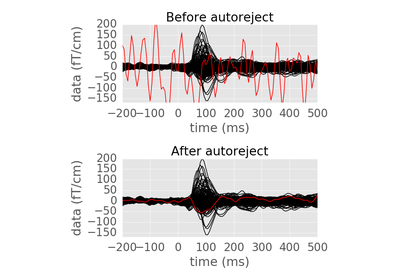
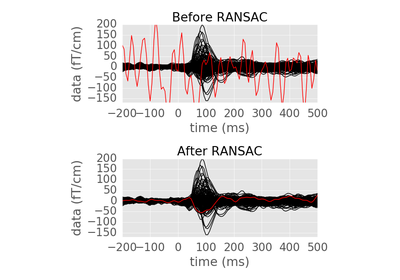
Make install

Changed region(s): [[0.42, 0.5143, 0.69, 0.5714], [0.42, 0.0286, 0.69, 0.0857]]

diff --git a/searchindex.js b/searchindex.js
@@ -1,1 +1,1 @@
-Search.setIndex({envversion:46,filenames:["api","auto_examples/index","auto_examples/plot_auto_repair","auto_examples/plot_channel_thresholds","auto_examples/plot_global_reject","auto_examples/plot_ransac","auto_examples/plot_visualize_bad_epochs","generated/autoreject.GlobalAutoReject","generated/autoreject.LocalAutoReject","generated/autoreject.LocalAutoRejectCV","generated/autoreject.Ransac","generated/autoreject.compute_thresholds","generated/autoreject.utils.fetch_file","generated/autoreject.utils.set_matplotlib_defaults","generated/autoreject.validation_curve","generated/autoreject.viz.plot_epochs","index"],objects:{"autoreject.GlobalAutoReject":{"__init__":[7,2,1,""]},"autoreject.LocalAutoReject":{"__init__":[8,2,1,""]},"autoreject.LocalAutoRejectCV":{"__init__":[9,2,1,""]},"autoreject.Ransac":{"__init__":[10,2,1,""]},"autoreject.utils":{fetch_file:[12,1,1,""],set_matplotlib_defaults:[13,1,1,""]},"autoreject.viz":{plot_epochs:[15,1,1,""]},autoreject:{GlobalAutoReject:[7,0,1,""],LocalAutoReject:[8,0,1,""],LocalAutoRejectCV:[9,0,1,""],Ransac:[10,0,1,""],compute_thresholds:[11,1,1,""],validation_curve:[14,1,1,""]}},objnames:{"0":["py","class","Python class"],"1":["py","function","Python function"],"2":["py","method","Python method"]},objtypes:{"0":"py:class","1":"py:function","2":"py:method"},terms:{"02d_raw":6,"03d":6,"100mb":15,"150e":15,"1_sub016_raw":6,"1e13":3,"1e6":4,"200e":4,"20e":15,"40_raw":[2,3,4,5],"40e":[4,6],"5th":15,"6th":16,"80e":4,"__file__":6,"__init__":[7,8,9,10],"case":4,"class":[0,2,4,7,8,9,10],"default":[7,8,9,11,13,15],"final":[3,6],"float":[7,8,10,12],"function":[0,2,4,5,8,9,15],"import":[2,3,4,5,6,16],"int":[7,8,10,11,14,15],"long":6,"public":13,"return":[8,9],"true":[2,3,4,5,6,12,15],"try":[2,4,9,12],"while":[2,5,6],abnorm:10,add:15,add_eeg_ref:6,adjust:15,admin:16,after:[2,5,6],against:4,agre:8,alexandr:[5,10,16],all:[2,4,6,8,9,10,11,15],allow:6,along:12,alpha:3,also:[2,5,6],amazonaw:6,amount:15,anaconda:16,analysi:[5,10],ani:[15,16],append:6,appli:6,argmin:4,argument:6,arrai:[2,3,9,14,15],arrow:15,artifact:[5,10,16],arxiv:[5,10,16],as_matrix:6,attribut:[8,9],auditori:[2,3,5],augment:2,author:[2,3,4,5,6],auto:[4,15],autom:[5,10,16],automat:[],autoreject:[],averag:[2,5,6],axi:[2,3,4,5],axvlin:4,backend:15,bad:[],bad_chs_:5,bad_epochs_idx:[6,15],bad_log:5,bad_seg:2,band:6,base_path:6,baselin:[2,3,4,5,6],bayesian_optim:[8,9,11],becaus:[2,5],been:6,befor:[2,5,6],beforehand:15,bekhti:[5,10,16],best_thresh:4,between:15,bigd:[5,10],block:15,blue:6,boilerpl:7,bool:[12,15],both:[2,3,4,5],bottom:[2,3,4,5],bsd:[2,3,4,5,6],butterfli:15,call:15,callabl:[2,8,9],can:[2,3,4,5,6,10,11,15,16],candid:4,cbar:[2,5],ch_type:[5,10],channel:[],check:[6,16],check_random_st:2,chosen:6,chpi:15,claus:[2,3,4,5,6],clean:[6,16],click:15,close:15,cmap:[2,5],code:[2,3,4,5,6,16],coil:5,color:[3,4],color_cycl:4,com:[6,16],compens:[2,5],comput:[2,3,4,5,6,7,11,16],compute_threshold:[],concaten:6,concatenate_epoch:6,configur:15,consecut:6,consensu:10,consensus_perc:[2,6,8,9],contain:6,continu:6,contribut:16,copi:[5,6,16],correl:10,correspond:15,creat:[2,5,6],cross:[2,5,9,14],current:[2,5],curv:14,cut:10,data:[2,3,4,5,6,15,16],data_path:[2,3,4,5],dataset:[2,3,4,5],decim:6,defin:[2,3,4],delet:6,demonstr:[2,3,4,5,6],deni:[5,10,16],depend:[15,16],desktop:[2,5],detail:16,detect:[],determin:[2,14],detrend:[2,4,5],dev_head_t:6,dict:[2,5,6,15],differ:3,dirnam:6,disk:6,displai:15,distribut:16,doctest:16,doe:2,don:[2,5],dot:5,down:15,download:[2,3,4,5,6,12],drop:[2,5,15],ds117:6,ds117_r0:6,each:[2,5,6,11],easiest:16,ecg063:6,ecg:[6,15],eeg061:6,eeg062:6,eeg063:6,eeg064:6,eeg:[2,3,4,5,6,10,11,15,16],effici:9,egg:16,electroencephalographi:16,emg:15,end:15,engemann:[5,10,16],eog061:6,eog062:6,eog:[2,3,4,5,6,15],epochs_ar:6,epochs_clean:[2,5,16],error:16,estim:[2,6,14],evalu:14,event:[2,3,4,5,6],event_fnam:[2,3,4,5],event_id:[2,3,4,5],events_id:6,everyth:16,evok:[2,5,6],evoked_clean:[2,5],exact:2,exclud:[2,3,4,5,6],execut:15,exist:6,extens:5,extract:[3,6],extractal:6,eyeblink:6,f11:15,face:6,factor:15,fals:[2,3,4,5,6,8,9,10,11,15],famou:6,federico:[5,10,16],fetch_fil:[],field:15,fif:[2,3,4,5,6],fig:[2,5,15],figsiz:[2,3,4,5],figur:[2,3,4,5,15],file:[2,5,6,12],file_nam:12,filter:6,find:[],find_ev:6,fine:16,first:[2,3,5,6,16],fit:[9,14],fit_predict:5,fit_transform:[2,6,16],fix_log:[6,15],flag:16,fly:15,fold:2,follow:[4,16],format:6,found:[3,6,14],fow:16,fraction:[8,10],from:[2,3,4,5,6,16],frontier:[5,10],full:15,functool:[2,6],futur:16,gener:[11,14],get:16,get_xticklabel:[2,5],get_yticklabel:[2,5],getmemb:6,git:16,github:16,github_repo:[2,5],give:16,global:[],globalautoreject:[],good:15,grad:[2,3,5,15],grade:[2,5],gramfort:[5,10,16],green:15,guarante:16,h_trans_bandwidth:6,halt:15,happen:16,have:[3,6,10,16],heatmap:[2,5],hist:3,histogram:3,home:[2,5,15],how:[2,3,4,5,6],http:[6,16],human_thresh:4,idl:[2,5],immedi:6,implement:[5,10,14],includ:[2,3,4,5,15],increas:6,inde:3,indic:15,info:[2,3,4,5,6],instanc:[8,9,11,13,14,15],instanti:[2,5],instead:6,intend:16,intern:[2,16],interpol:[2,5,6,8,15],interpolate_bad:5,ipynb:[2,3,4,5,6],ipython:[2,3,4,5,6],issu:16,item:[2,5],iter:14,job:10,joblib:[],join:6,just:[2,5],kei:15,l_trans_bandwidth:6,label:[4,14],larg:[5,10],learn:[2,4,9,16],left:[2,3,4,5,15],legend:4,length:[6,10],less:[2,6],let:[2,3,4,5,6],level:[],librari:16,licens:[2,3,4,5,6],like:[2,4,15],line:[15,16],linestyl:4,linewidth:4,linspac:[2,4,9],list:[2,5,6],load:[3,6,12,15],loc:4,local_ar:9,localautorejectcv:[],mag:15,magneto:16,mai:6,main:15,mainak:[2,3,4,5,6,10,16],make:[2,5,16],manual:[2,4,5],map:5,mark:[2,5,15],markeredgecolor:4,markeredgewidth:4,markerfacecolor:4,markers:4,match:15,math:[],matplotlib:[2,3,4,5,13,15,16],matrix:5,mean:4,meg:[2,3,4,5,6,10,16],member:6,memori:6,messag:[8,9,10,11,16],method:[2,3,7,8,9,10,11,14],min_channel:10,min_corr:10,min_dur:6,minut:[2,3,4,5,6],misc:[6,15],miss:5,mne:[2,3,4,5,6,8,9,10,11,14,16],mode:15,more:[2,16],mous:15,mpl:15,multipl:16,must:[2,3,8,11,14],n_channel:[7,15],n_consensu:9,n_epoch:15,n_interp:[2,9],n_interpol:[2,6,8,9],n_job:[6,10],n_resampl:10,n_time:7,name:[12,14,15],navig:15,necessari:6,need:[12,16],neighbour:10,neuroimag:16,neuroinformat:[5,10],next:4,nice:16,nima:[5,10],none:[2,3,4,5,6,7,8,9,11,14,15],note:5,notebook:[2,3,4,5,6],now:[2,3,4,5,6,16],number:[2,3,6,7,8,10,11,15],numpi:[2,3,4,16],object:[8,9,11,14,15,16],off:[2,3,4,5,10],onli:[2,5,15],onset:6,open:[2,5,6,12],openfmri:6,optim:[2,16],option:[12,14,16],org:[],origin:5,our:3,out:[2,5,6,16],output:[8,9,10,11],over:3,page:15,panda:16,parallel:10,param:[2,5],param_nam:[4,14],param_rang:[4,14],paramet:[2,14,15],paristech:[2,3,4,5,6],partial:[2,6,12],particular:[2,4],pass:6,path:[6,12],pattern:16,pca:[2,5],peak:4,per:[],percentag:8,percentil:15,pick:[2,3,4,5,6,15],pick_typ:[2,3,4,5,6],pip:16,pipelin:[5,10],plot:[],plot_auto_repair:2,plot_channel_threshold:3,plot_epoch:[],plot_global_reject:4,plot_ransac:5,plot_visualize_bad_epoch:6,plt:[2,3,4,5,13],point:7,poor:10,predict:[10,14],preload:[2,3,4,5,6,15],prep:[5,10],prepar:5,preprint:[5,10,16],preprocess:[5,10],preselect:2,print:6,privileg:16,prni:16,process:6,product:5,program:15,progress:[8,9,10,11],progressbar:[8,9,10,11,16],proj:[2,5,6],project:[2,5],provid:[2,16],pseudo:11,purpos:[2,5],pyplot:[2,3,4,5,13],python:[2,3,4,5,6,16],qualiti:13,raimondo:[5,10,16],random:[10,11],random_search:[2,3,11],random_st:[2,3,6,11],randomst:11,rang:[2,3,4,5,6],ransac:[],raw:[2,3,4,5,6],raw_fnam:[2,3,4,5],rcparam:4,read:[2,5,6,16],read_ev:[2,3,4,5],read_raw_fif:[2,3,4,5,6],readi:[2,5],recognit:16,recommend:16,reconstruct:10,rect:[2,5],red:[2,5,6,15],ref_meg:15,refer:[2,5],relat:[2,5],remov:[2,5,6],rename_channel:6,repair:[],request:12,requir:2,resampl:10,reset_bad:5,resp:15,rest:2,result:[2,5],resum:12,right:[2,3,4,5,15],rmse:4,robust:10,root:4,rotat:[2,5],run:[2,3,4,5,6],run_:6,run_fnam:6,same:6,sampl:[2,3,4,5,6,10],sample_audvis_filt:[2,3,4,5],saniti:6,save:12,scale:[3,4,5,6,10,15],scikit:[4,9,16],scipi:16,score:4,scrambl:6,screen:15,script:[2,3,4,5,6,16],seaborn:[2,5],sec:[2,5,6],second:[2,3,4,5,6],see:6,seed:11,segment:15,select:[3,6,15],sensor:[],set:[2,5,6,10,13,15],set_channel_typ:6,set_eeg_refer:6,set_matplotlib_default:[],set_titl:[2,5],set_xlabel:[2,5],set_ylabel:[2,5],setp:[2,5],shall:[2,5],shamlo:[5,10],shape:15,should:[15,16],show:[2,3,4,5,15],side:15,signal:3,skip:16,some:[2,5],sourc:[2,3,4,5,6],spatial_color:6,squar:[2,4,5],src_url:6,standard:[5,10],start:[6,16],sti101:6,stim:[2,3,4,5,6,15],stim_channel:6,stimuli:6,str:[10,11,14,15],strategi:14,string:12,sub016:6,sub:6,subject:6,subject_id:6,subplot:[2,5],subset:15,support:16,suppress:[8,9,10,11],take:6,tar:6,tarbal:6,tarfil:6,target:6,telecom:[2,3,4,5,6],test_scor:4,tgz:6,than:[2,16],them:[5,6],therefor:[2,5],thi:[2,3,4,5,6,11,15,16],thing:[2,5],this_epoch:6,three:16,thresh:[3,4,7],thresh_func:[2,6,8,9],threshold:[],tick_param:[2,3,4,5],tight_layout:[2,3,4,5],time:[2,3,4,5,6,7,10],timeout:12,titl:[6,15],tkagg:15,tmax:[2,3,4,5,6],tmin:[2,3,4,5,6],toggl:15,top:[2,3,4,5,15],total:[2,3,4,5,6,8],tqdm:[3,5,6,8,9,10,11,16],tqdm_notebook:[8,9,10,11,16],trace:15,tracker:16,trial:[],trigger:[3,6],truncat:5,type:[2,5,16],unbroken_tim:10,unfamiliar:6,unit:[3,4],until:15,upgrad:16,upper:4,url:12,user:16,valid:[2,9,14],validation_curv:[],valu:[2,4,9,14],vari:14,verbos:[2,3,4,5,6,8,9,10,11,16],verifi:3,vertic:15,view:15,wai:[11,16],want:[2,5,16],welcom:16,well:[5,6,15],when:[2,5],where:12,whether:15,which:[2,3,4,5,6,8,9],whose:[11,14],window:15,window_s:10,wise:3,work:[5,15,16],workshop:16,worst:2,would:[2,4],wrt:10,xlabel:[3,4],xlim:[3,4],xticklabel:[2,5],xxx:6,yet:6,ylabel:[3,4],ylim:[2,5,6],you:16,your:16,yousra:[5,10,16],yticklabel:[2,5]},titles:["API Documentation","Examples Gallery","Automatically repair epochs","Plot channel-level thresholds","Find global rejection threshold","Detect bad sensors using RANSAC","Visualize bad sensors per trial","autoreject.GlobalAutoReject","autoreject.LocalAutoReject","autoreject.LocalAutoRejectCV","autoreject.Ransac","autoreject.compute_thresholds","autoreject.utils.fetch_file","autoreject.utils.set_matplotlib_defaults","autoreject.validation_curve","autoreject.viz.plot_epochs","autoreject"],titleterms:{api:0,automat:2,autoreject:[7,8,9,10,11,12,13,14,15,16],bad:[5,6],bug:16,channel:3,cite:16,compute_threshold:11,detect:5,document:0,epoch:[0,2],exampl:1,fetch_fil:12,find:4,galleri:1,global:4,globalautoreject:7,instal:16,level:3,localautoreject:8,localautorejectcv:9,per:6,plot:3,plot_epoch:15,quickstart:16,ransac:[5,10],reject:[0,4],repair:2,report:16,sensor:[5,6],set_matplotlib_default:13,threshold:[3,4],trial:6,util:[0,12,13],validation_curv:14,visual:[0,6],viz:15}})
+Search.setIndex({envversion:46,filenames:["api","auto_examples/index","auto_examples/plot_auto_repair","auto_examples/plot_channel_thresholds","auto_examples/plot_global_reject","auto_examples/plot_ransac","auto_examples/plot_visualize_bad_epochs","generated/autoreject.GlobalAutoReject","generated/autoreject.LocalAutoReject","generated/autoreject.LocalAutoRejectCV","generated/autoreject.Ransac","generated/autoreject.compute_thresholds","generated/autoreject.utils.fetch_file","generated/autoreject.utils.set_matplotlib_defaults","generated/autoreject.validation_curve","generated/autoreject.viz.plot_epochs","index"],objects:{"autoreject.GlobalAutoReject":{"__init__":[7,2,1,""]},"autoreject.LocalAutoReject":{"__init__":[8,2,1,""]},"autoreject.LocalAutoRejectCV":{"__init__":[9,2,1,""]},"autoreject.Ransac":{"__init__":[10,2,1,""]},"autoreject.utils":{fetch_file:[12,1,1,""],set_matplotlib_defaults:[13,1,1,""]},"autoreject.viz":{plot_epochs:[15,1,1,""]},autoreject:{GlobalAutoReject:[7,0,1,""],LocalAutoReject:[8,0,1,""],LocalAutoRejectCV:[9,0,1,""],Ransac:[10,0,1,""],compute_thresholds:[11,1,1,""],validation_curve:[14,1,1,""]}},objnames:{"0":["py","class","Python class"],"1":["py","function","Python function"],"2":["py","method","Python method"]},objtypes:{"0":"py:class","1":"py:function","2":"py:method"},terms:{"02d_raw":6,"03d":6,"100mb":15,"150e":15,"1_sub016_raw":6,"1e13":3,"1e6":4,"200e":4,"20e":15,"40_raw":[2,3,4,5],"40e":[4,6],"5th":15,"6th":16,"80e":4,"__file__":6,"__init__":[7,8,9,10],"case":4,"class":[0,2,4,7,8,9,10],"default":[7,8,9,11,13,15],"final":[3,6],"float":[7,8,10,12],"function":[0,2,4,8,9,15],"import":[2,3,4,5,6,16],"int":[7,8,10,11,14,15],"long":6,"public":13,"return":[8,9],"true":[2,3,4,5,6,12,15],"try":[2,4,9,12],"while":[2,5,6],abnorm:10,add:15,add_eeg_ref:6,adjust:15,admin:16,after:[2,5,6],against:4,agre:8,alexandr:[5,10,16],all:[2,4,6,8,9,10,11,15],allow:6,along:12,alpha:3,also:[2,5,6,16],amazonaw:6,amount:15,anaconda:16,analysi:[5,10],ani:[15,16],append:6,appli:6,argmin:4,argument:6,arrai:[2,3,9,14,15],arrow:15,artifact:[5,10,16],arxiv:[5,10,16],as_matrix:6,attribut:[8,9],auditori:[2,3,5],augment:2,author:[2,3,4,5,6],auto:[4,15],autom:[5,10,16],automat:[],autoreject:[],averag:[2,5,6],axi:[2,3,4,5],axvlin:4,backend:15,bad:[],bad_chs_:5,bad_epochs_idx:[6,15],bad_log:5,bad_seg:2,band:6,base_path:6,baselin:[2,3,4,5,6],bayesian_optim:[8,9,11],becaus:[2,5],been:6,befor:[2,5,6],beforehand:15,bekhti:[5,10,16],best_thresh:4,between:15,bigd:[5,10],block:15,blue:6,boilerpl:7,bool:[12,15],both:[2,3,4,5],bottom:[2,3,4,5],bsd:[2,3,4,5,6],butterfli:15,call:15,callabl:[2,8,9],can:[2,3,4,5,6,10,11,15,16],candid:4,cbar:[2,5],ch_type:[5,10],channel:[],check:[6,16],check_random_st:2,chosen:6,chpi:15,claus:[2,3,4,5,6],clean:[6,16],click:15,close:15,cmap:[2,5],code:[2,3,4,5,6,16],coil:5,color:[3,4],color_cycl:4,com:[6,16],compens:[2,5],comput:[2,3,4,5,6,7,11,16],compute_threshold:[],concaten:6,concatenate_epoch:6,configur:15,consecut:6,consensu:10,consensus_perc:[2,6,8,9],contain:6,continu:6,contribut:16,copi:[6,16],correl:10,correspond:15,creat:[2,5,6],cross:[2,5,9,14],current:[2,5],curv:14,cut:10,data:[2,3,4,5,6,15,16],data_path:[2,3,4,5],dataset:[2,3,4,5],decim:6,defin:[2,3,4],delet:6,demonstr:[2,3,4,5,6],deni:[5,10,16],depend:[15,16],desktop:[2,5],detail:16,detect:[],determin:[2,14],detrend:[2,4,5],dev_head_t:6,dict:[2,5,6,15],differ:3,dirnam:6,disk:6,displai:15,distribut:16,doctest:16,doe:2,don:[2,5],dot:5,down:15,download:[2,3,4,5,6,12],drop:[2,5,15],ds117:6,ds117_r0:6,each:[2,5,6,11],easiest:16,ecg063:6,ecg:[6,15],eeg061:6,eeg062:6,eeg063:6,eeg064:6,eeg:[2,3,4,5,6,10,11,15,16],effici:9,egg:16,electroencephalographi:16,emg:15,end:15,engemann:[5,10,16],eog061:6,eog062:6,eog:[2,3,4,5,6,15],epochs_ar:6,epochs_clean:[2,5,16],error:16,estim:[2,6,14],evalu:14,event:[2,3,4,5,6],event_fnam:[2,3,4,5],event_id:[2,3,4,5],events_id:6,everyth:16,evok:[2,5,6],evoked_clean:[2,5],exact:2,exclud:[2,3,4,5,6],execut:15,exist:6,extens:5,extract:[3,6],extractal:6,eyeblink:6,f11:15,face:6,factor:15,fals:[2,3,4,5,6,8,9,10,11,15],familiar:5,famou:6,federico:[5,10,16],fetch_fil:[],field:15,fif:[2,3,4,5,6],fig:[2,5,15],figsiz:[2,3,4,5],figur:[2,3,4,5,15],file:[2,5,6,12],file_nam:12,filter:6,find:[],find_ev:6,fine:16,first:[2,3,6,16],fit:[9,14],fit_predict:[],fit_transform:[2,5,6,16],fix_log:[6,15],flag:16,fly:15,fold:2,follow:[4,16],format:6,found:[3,6,14],fow:16,fraction:[8,10],from:[2,3,4,5,6,16],frontier:[5,10],full:15,functool:[2,6],futur:16,gener:[11,14],get:[5,16],get_xticklabel:[2,5],get_yticklabel:[2,5],getmemb:6,git:16,github:16,github_repo:[2,5],give:16,global:[],globalautoreject:[],good:15,grad:[2,3,5,15],grade:[2,5],gramfort:[5,10,16],green:15,guarante:16,h_trans_bandwidth:6,halt:15,happen:16,have:[3,6,10,16],heatmap:[2,5],hist:3,histogram:3,home:[2,5,15],how:[2,3,4,5,6],http:[6,16],human_thresh:4,idl:[2,5],immedi:6,implement:[5,10,14,16],includ:[2,3,4,5,15],increas:6,inde:3,indic:15,info:[2,3,4,5,6],instanc:[8,9,11,13,14,15],instanti:[2,5],instead:6,intend:16,intern:[2,16],interpol:[2,5,6,8,15],interpolate_bad:5,ipynb:[2,3,4,5,6],ipython:[2,3,4,5,6],issu:16,item:[2,5],iter:14,job:10,joblib:[],join:[5,6],just:[2,5],kei:15,l_trans_bandwidth:6,label:[4,14],larg:[5,10],learn:[2,4,9,16],left:[2,3,4,5,15],legend:4,length:[6,10],less:[2,6],let:[2,3,4,5,6],level:[],librari:16,licens:[2,3,4,5,6],like:[2,4,15],line:[15,16],linestyl:4,linewidth:4,linspac:[2,4,9],list:[2,5,6],load:[3,6,12,15],loc:4,local_ar:9,localautorejectcv:[],mag:15,magneto:16,mai:6,main:15,mainak:[2,3,4,5,6,10,16],make:[2,5,16],manual:[2,4,5],map:5,mark:[2,5,15],markeredgecolor:4,markeredgewidth:4,markerfacecolor:4,markers:4,match:15,math:[],matplotlib:[2,3,4,5,13,15,16],matrix:5,mean:4,meg:[2,3,4,5,6,10,16],member:6,memori:6,messag:[8,9,10,11,16],method:[2,3,5,7,8,9,10,11,14],min_channel:10,min_corr:10,min_dur:6,minut:[2,3,4,5,6],misc:[6,15],miss:5,mne:[2,3,4,5,6,8,9,10,11,14,16],mode:15,more:[2,16],mous:15,mpl:15,multipl:16,must:[2,3,8,11,14],n_channel:[7,15],n_consensu:9,n_epoch:15,n_interp:[2,9],n_interpol:[2,6,8,9],n_job:[6,10],n_resampl:10,n_time:7,name:[12,14,15],navig:15,necessari:6,need:[12,16],neighbour:10,neuroimag:16,neuroinformat:[5,10],next:4,nice:16,nima:[5,10],none:[2,3,4,5,6,7,8,9,11,14,15],note:5,notebook:[2,3,4,5,6],now:[2,3,4,5,6,16],number:[2,3,6,7,8,10,11,15],numpi:[2,3,4,16],object:[8,9,11,14,15,16],off:[2,3,4,5,10],onli:[2,5,15],onset:6,open:[2,5,6,12],openfmri:6,optim:[2,16],option:[12,14,16],org:[],origin:5,our:3,out:[2,5,6,16],output:[8,9,10,11],over:3,page:15,panda:16,parallel:10,param:[2,5],param_nam:[4,14],param_rang:[4,14],paramet:[2,14,15],paristech:[2,3,4,5,6],partial:[2,6,12],particular:[2,4],pass:6,path:[6,12],pattern:16,pca:[2,5],peak:4,per:[],percentag:8,percentil:15,pick:[2,3,4,5,6,15],pick_typ:[2,3,4,5,6],pip:16,pipelin:[5,10,16],plot:[],plot_auto_repair:2,plot_channel_threshold:3,plot_epoch:[],plot_global_reject:4,plot_ransac:5,plot_visualize_bad_epoch:6,plt:[2,3,4,5,13],point:7,poor:10,predict:[10,14],preload:[2,3,4,5,6,15],prep:[5,10,16],prepar:5,preprint:[5,10,16],preprocess:[5,10],preselect:2,print:[5,6],privileg:16,prni:16,process:6,product:5,program:15,progress:[8,9,10,11],progressbar:[8,9,10,11,16],proj:[2,5,6],project:[2,5],provid:[2,16],pseudo:11,purpos:[2,5],pyplot:[2,3,4,5,13],python:[2,3,4,5,6,16],qualiti:13,raimondo:[5,10,16],random:[10,11],random_search:[2,3,11],random_st:[2,3,6,11],randomst:11,rang:[2,3,4,5,6],ransac:[],raw:[2,3,4,5,6],raw_fnam:[2,3,4,5],rcparam:4,read:[2,5,6,16],read_ev:[2,3,4,5],read_raw_fif:[2,3,4,5,6],readi:[2,5],recognit:16,recommend:16,reconstruct:10,rect:[2,5],red:[2,5,6,15],ref_meg:15,refer:[2,5],relat:[2,5],remov:[2,5,6],rename_channel:6,repair:[],request:12,requir:2,resampl:10,reset_bad:[],resp:15,rest:2,result:[2,5],resum:12,right:[2,3,4,5,15],rmse:4,robust:10,root:4,rotat:[2,5],rsc:16,run:[2,3,4,5,6],run_:6,run_fnam:6,same:[6,16],sampl:[2,3,4,5,6,10],sample_audvis_filt:[2,3,4,5],saniti:6,save:12,scale:[3,4,5,6,10,15],scikit:[4,9,16],scipi:16,score:4,scrambl:6,screen:15,script:[2,3,4,5,6,16],seaborn:[2,5],sec:[2,5,6],second:[2,3,4,5,6],see:6,seed:11,segment:15,select:[3,6,15],sensor:[],set:[2,5,6,10,13,15],set_channel_typ:6,set_eeg_refer:6,set_matplotlib_default:[],set_titl:[2,5],set_xlabel:[2,5],set_ylabel:[2,5],setp:[2,5],shall:[2,5],shamlo:[5,10],shape:15,should:[15,16],show:[2,3,4,5,15],side:15,signal:3,skip:16,some:[2,5],sourc:[2,3,4,5,6],spatial_color:6,squar:[2,4,5],src_url:6,standard:[5,10],start:[6,16],sti101:6,stim:[2,3,4,5,6,15],stim_channel:6,stimuli:6,str:[10,11,14,15],strategi:14,string:12,sub016:6,sub:6,subject:6,subject_id:6,subplot:[2,5],subset:15,support:16,suppress:[8,9,10,11],take:6,tar:6,tarbal:6,tarfil:6,target:6,telecom:[2,3,4,5,6],test_scor:4,tgz:6,than:[2,16],them:[5,6],therefor:[2,5],thi:[2,3,4,5,6,11,15,16],thing:[2,5],this_epoch:6,three:16,thresh:[3,4,7],thresh_func:[2,6,8,9],threshold:[],tick_param:[2,3,4,5],tight_layout:[2,3,4,5],time:[2,3,4,5,6,7,10],timeout:12,titl:[6,15],tkagg:15,tmax:[2,3,4,5,6],tmin:[2,3,4,5,6],toggl:15,top:[2,3,4,5,15],total:[2,3,4,5,6,8],tqdm:[3,5,6,8,9,10,11,16],tqdm_notebook:[8,9,10,11,16],trace:15,tracker:16,trial:[],trigger:[3,6],truncat:5,type:[2,5,16],unbroken_tim:10,unfamiliar:6,unit:[3,4],until:15,upgrad:16,upper:4,url:12,user:16,valid:[2,9,14],validation_curv:[],valu:[2,4,9,14],vari:14,verbos:[2,3,4,5,6,8,9,10,11,16],verifi:3,vertic:15,view:15,wai:[11,16],want:[2,5,16],welcom:16,well:[5,6,15],when:[2,5],where:12,whether:15,which:[2,3,4,5,6,8,9],whose:[11,14],window:15,window_s:10,wise:3,work:[5,15,16],workshop:16,worst:2,would:[2,4],wrt:10,xlabel:[3,4],xlim:[3,4],xticklabel:[2,5],xxx:6,yet:6,ylabel:[3,4],ylim:[2,5,6],you:16,your:16,yousra:[5,10,16],yticklabel:[2,5]},titles:["API Documentation","Examples Gallery","Automatically repair epochs","Plot channel-level thresholds","Find global rejection threshold","Detect bad sensors using RANSAC","Visualize bad sensors per trial","autoreject.GlobalAutoReject","autoreject.LocalAutoReject","autoreject.LocalAutoRejectCV","autoreject.Ransac","autoreject.compute_thresholds","autoreject.utils.fetch_file","autoreject.utils.set_matplotlib_defaults","autoreject.validation_curve","autoreject.viz.plot_epochs","autoreject"],titleterms:{api:0,automat:2,autoreject:[7,8,9,10,11,12,13,14,15,16],bad:[5,6],bug:16,channel:3,cite:16,compute_threshold:11,detect:5,document:0,epoch:[0,2],exampl:1,fetch_fil:12,find:4,galleri:1,global:4,globalautoreject:7,instal:16,level:3,localautoreject:8,localautorejectcv:9,per:6,plot:3,plot_epoch:15,quickstart:16,ransac:[5,10],reject:[0,4],repair:2,report:16,sensor:[5,6],set_matplotlib_default:13,threshold:[3,4],trial:6,util:[0,12,13],validation_curv:14,visual:[0,6],viz:15}})

diff --git a/auto_examples/plot_ransac.html b/auto_examples/plot_ransac.html
@@ -186,18 +186,12 @@ because we do not want epochs to be dropped when instantiating
                 <span class="n">verbose</span><span class="o">=</span><span class="bp">False</span><span class="p">,</span> <span class="n">detrend</span><span class="o">=</span><span class="mi">0</span><span class="p">,</span> <span class="n">preload</span><span class="o">=</span><span class="bp">True</span><span class="p">)</span>
 </pre></div>
 </div>
-<p>First, we set up the function to compute the sensor-level thresholds.</p>
+<p>We import <code class="docutils literal"><span class="pre">Ransac</span></code> and run the familiar <code class="docutils literal"><span class="pre">fit_transform</span></code> method.</p>
 <div class="highlight-python"><div class="highlight"><pre><span></span><span class="kn">from</span> <span class="nn">autoreject</span> <span class="kn">import</span> <span class="n">Ransac</span>
 <span class="kn">from</span> <span class="nn">autoreject.utils</span> <span class="kn">import</span> <span class="n">interpolate_bads</span>
 
 <span class="n">ransac</span> <span class="o">=</span> <span class="n">Ransac</span><span class="p">(</span><span class="n">ch_type</span><span class="o">=</span><span class="s1">&#39;meg&#39;</span><span class="p">,</span> <span class="n">verbose</span><span class="o">=</span><span class="s1">&#39;tqdm&#39;</span><span class="p">)</span>
-<span class="n">ransac</span><span class="o">.</span><span class="n">fit_predict</span><span class="p">(</span><span class="n">epochs</span><span class="p">)</span>
-<span class="n">epochs_clean</span> <span class="o">=</span> <span class="n">epochs</span><span class="o">.</span><span class="n">copy</span><span class="p">()</span>
-<span class="n">epochs_clean</span><span class="o">.</span><span class="n">info</span><span class="p">[</span><span class="s1">&#39;bads&#39;</span><span class="p">]</span> <span class="o">=</span> <span class="n">ransac</span><span class="o">.</span><span class="n">bad_chs_</span>
-<span class="n">epochs_clean</span><span class="o">.</span><span class="n">interpolate_bads</span><span class="p">(</span><span class="n">reset_bads</span><span class="o">=</span><span class="bp">True</span><span class="p">)</span>
-
-<span class="n">evoked</span> <span class="o">=</span> <span class="n">epochs</span><span class="o">.</span><span class="n">average</span><span class="p">()</span>
-<span class="n">evoked_clean</span> <span class="o">=</span> <span class="n">epochs_clean</span><span class="o">.</span><span class="n">average</span><span class="p">()</span>
+<span class="n">epochs_clean</span> <span class="o">=</span> <span class="n">ransac</span><span class="o">.</span><span class="n">fit_transform</span><span class="p">(</span><span class="n">epochs</span><span class="p">)</span>
 </pre></div>
 </div>
 <p class="sphx-glr-script-out">Out:</p>
@@ -207,7 +201,40 @@ because we do not want epochs to be dropped when instantiating
   [Truncate at 77 missing 0.0001]
 </pre></div>
 </div>
-<p>Now, we will manually mark the bad channels just for plotting.</p>
+<p>We can also get the list of bad channels computed by <code class="docutils literal"><span class="pre">Ransac</span></code>.</p>
+<div class="highlight-python"><div class="highlight"><pre><span></span><span class="k">print</span><span class="p">(</span><span class="s1">&#39;</span><span class="se">\n</span><span class="s1">&#39;</span><span class="o">.</span><span class="n">join</span><span class="p">(</span><span class="n">ransac</span><span class="o">.</span><span class="n">bad_chs_</span><span class="p">))</span>
+</pre></div>
+</div>
+<p class="sphx-glr-script-out">Out:</p>
+<div class="sphx-glr-script-out highlight-python"><div class="highlight"><pre><span></span>  MEG 0512
+MEG 0523
+MEG 0613
+MEG 0722
+MEG 0813
+MEG 0823
+MEG 0912
+MEG 0942
+MEG 0943
+MEG 1013
+MEG 1023
+MEG 1032
+MEG 1033
+MEG 1832
+MEG 1842
+MEG 2023
+MEG 2242
+MEG 2312
+MEG 2432
+MEG 2443
+MEG 2523
+</pre></div>
+</div>
+<p>Then we compute the <code class="docutils literal"><span class="pre">evoked</span></code> before and after interpolation.</p>
+<div class="highlight-python"><div class="highlight"><pre><span></span><span class="n">evoked</span> <span class="o">=</span> <span class="n">epochs</span><span class="o">.</span><span class="n">average</span><span class="p">()</span>
+<span class="n">evoked_clean</span> <span class="o">=</span> <span class="n">epochs_clean</span><span class="o">.</span><span class="n">average</span><span class="p">()</span>
+</pre></div>
+</div>
+<p>We will manually mark the bad channels just for plotting.</p>
 <div class="highlight-python"><div class="highlight"><pre><span></span><span class="n">evoked</span><span class="o">.</span><span class="n">info</span><span class="p">[</span><span class="s1">&#39;bads&#39;</span><span class="p">]</span> <span class="o">=</span> <span class="p">[</span><span class="s1">&#39;MEG 2443&#39;</span><span class="p">]</span>
 <span class="n">evoked_clean</span><span class="o">.</span><span class="n">info</span><span class="p">[</span><span class="s1">&#39;bads&#39;</span><span class="p">]</span> <span class="o">=</span> <span class="p">[</span><span class="s1">&#39;MEG 2443&#39;</span><span class="p">]</span>
 </pre></div>
@@ -226,10 +253,10 @@ because we do not want epochs to be dropped when instantiating
 <span class="n">ylim</span> <span class="o">=</span> <span class="nb">dict</span><span class="p">(</span><span class="n">grad</span><span class="o">=</span><span class="p">(</span><span class="o">-</span><span class="mi">170</span><span class="p">,</span> <span class="mi">200</span><span class="p">))</span>
 <span class="n">evoked</span><span class="o">.</span><span class="n">pick_types</span><span class="p">(</span><span class="n">meg</span><span class="o">=</span><span class="s1">&#39;grad&#39;</span><span class="p">,</span> <span class="n">exclude</span><span class="o">=</span><span class="p">[])</span>
 <span class="n">evoked</span><span class="o">.</span><span class="n">plot</span><span class="p">(</span><span class="n">exclude</span><span class="o">=</span><span class="p">[],</span> <span class="n">axes</span><span class="o">=</span><span class="n">axes</span><span class="p">[</span><span class="mi">0</span><span class="p">],</span> <span class="n">ylim</span><span class="o">=</span><span class="n">ylim</span><span class="p">,</span> <span class="n">show</span><span class="o">=</span><span class="bp">False</span><span class="p">)</span>
-<span class="n">axes</span><span class="p">[</span><span class="mi">0</span><span class="p">]</span><span class="o">.</span><span class="n">set_title</span><span class="p">(</span><span class="s1">&#39;Before autoreject&#39;</span><span class="p">)</span>
+<span class="n">axes</span><span class="p">[</span><span class="mi">0</span><span class="p">]</span><span class="o">.</span><span class="n">set_title</span><span class="p">(</span><span class="s1">&#39;Before RANSAC&#39;</span><span class="p">)</span>
 <span class="n">evoked_clean</span><span class="o">.</span><span class="n">pick_types</span><span class="p">(</span><span class="n">meg</span><span class="o">=</span><span class="s1">&#39;grad&#39;</span><span class="p">,</span> <span class="n">exclude</span><span class="o">=</span><span class="p">[])</span>
 <span class="n">evoked_clean</span><span class="o">.</span><span class="n">plot</span><span class="p">(</span><span class="n">exclude</span><span class="o">=</span><span class="p">[],</span> <span class="n">axes</span><span class="o">=</span><span class="n">axes</span><span class="p">[</span><span class="mi">1</span><span class="p">],</span> <span class="n">ylim</span><span class="o">=</span><span class="n">ylim</span><span class="p">)</span>
-<span class="n">axes</span><span class="p">[</span><span class="mi">1</span><span class="p">]</span><span class="o">.</span><span class="n">set_title</span><span class="p">(</span><span class="s1">&#39;After autoreject&#39;</span><span class="p">)</span>
+<span class="n">axes</span><span class="p">[</span><span class="mi">1</span><span class="p">]</span><span class="o">.</span><span class="n">set_title</span><span class="p">(</span><span class="s1">&#39;After RANSAC&#39;</span><span class="p">)</span>
 <span class="n">plt</span><span class="o">.</span><span class="n">tight_layout</span><span class="p">()</span>
 </pre></div>
 </div>
@@ -253,7 +280,7 @@ because we do not want epochs to be dropped when instantiating
 </div>
 <img alt="../_images/sphx_glr_plot_ransac_002.png" class="align-center" src="../_images/sphx_glr_plot_ransac_002.png" />
 <p><strong>Total running time of the script:</strong>
-(8 minutes 30.771 seconds)</p>
+(0 minutes 13.384 seconds)</p>
 <div class="sphx-glr-download container">
 <strong>Download Python source code:</strong> <a class="reference download internal" href="../_downloads/plot_ransac.py"><code class="xref download docutils literal"><span class="pre">plot_ransac.py</span></code></a></div>
 <div class="sphx-glr-download container">

diff --git a/index.html b/index.html
@@ -153,8 +153,14 @@ in your script:</p>
 <span class="gp">&gt;&gt;&gt; </span><span class="n">epochs_clean</span> <span class="o">=</span> <span class="n">ar</span><span class="o">.</span><span class="n">fit_transform</span><span class="p">(</span><span class="n">epochs</span><span class="p">)</span>  
 </pre></div>
 </div>
-<p>This will automatically clean an <cite>epochs</cite> object read in using MNE-Python. For more details check
-out the <a class="reference internal" href="auto_examples/plot_auto_repair.html#sphx-glr-auto-examples-plot-auto-repair-py"><span>example to automatically detect and repair bad epochs</span></a>.</p>
+<p>This will automatically clean an <cite>epochs</cite> object read in using MNE-Python. We also implement RANSAC from the PREP pipeline.
+The API is the same:</p>
+<div class="code python highlight-python"><div class="highlight"><pre><span></span><span class="gp">&gt;&gt;&gt; </span><span class="kn">from</span> <span class="nn">autoreject</span> <span class="kn">import</span> <span class="n">Ransac</span>
+<span class="gp">&gt;&gt;&gt; </span><span class="n">rsc</span> <span class="o">=</span> <span class="n">Ransac</span><span class="p">()</span>
+<span class="gp">&gt;&gt;&gt; </span><span class="n">epochs_clean</span> <span class="o">=</span> <span class="n">rsc</span><span class="o">.</span><span class="n">fit_transform</span><span class="p">(</span><span class="n">epochs</span><span class="p">)</span>  
+</pre></div>
+</div>
+<p>For more details check out the <a class="reference internal" href="auto_examples/plot_auto_repair.html#sphx-glr-auto-examples-plot-auto-repair-py"><span>example to automatically detect and repair bad epochs</span></a>.</p>
 <div class="admonition note">
 <p class="first admonition-title">Note</p>
 <p class="last">Fow now, we do not guarantee if autoreject will work for more than one channel type. We intend to support multiple channel

diff --git a/_downloads/plot_ransac.py b/_downloads/plot_ransac.py
@@ -64,25 +64,29 @@ epochs = Epochs(raw, events, event_id, tmin, tmax,
                 verbose=False, detrend=0, preload=True)
 
 ###############################################################################
-# First, we set up the function to compute the sensor-level thresholds.
+# We import ``Ransac`` and run the familiar ``fit_transform`` method.
 from autoreject import Ransac
 from autoreject.utils import interpolate_bads
 
 ransac = Ransac(ch_type='meg', verbose='tqdm')
-ransac.fit_predict(epochs)
-epochs_clean = epochs.copy()
-epochs_clean.info['bads'] = ransac.bad_chs_
-epochs_clean.interpolate_bads(reset_bads=True)
+epochs_clean = ransac.fit_transform(epochs)
+
+###############################################################################
+# We can also get the list of bad channels computed by ``Ransac``.
+
+print('\n'.join(ransac.bad_chs_))
+
+###############################################################################
+# Then we compute the ``evoked`` before and after interpolation.
 
 evoked = epochs.average()
 evoked_clean = epochs_clean.average()
 
 ###############################################################################
-# Now, we will manually mark the bad channels just for plotting.
+# We will manually mark the bad channels just for plotting.
 
 evoked.info['bads'] = ['MEG 2443']
 evoked_clean.info['bads'] = ['MEG 2443']
-
 
 ###############################################################################
 # Let us plot the results.
@@ -100,10 +104,10 @@ for ax in axes:
 ylim = dict(grad=(-170, 200))
 evoked.pick_types(meg='grad', exclude=[])
 evoked.plot(exclude=[], axes=axes[0], ylim=ylim, show=False)
-axes[0].set_title('Before autoreject')
+axes[0].set_title('Before RANSAC')
 evoked_clean.pick_types(meg='grad', exclude=[])
 evoked_clean.plot(exclude=[], axes=axes[1], ylim=ylim)
-axes[1].set_title('After autoreject')
+axes[1].set_title('After RANSAC')
 plt.tight_layout()
 
 ###############################################################################
